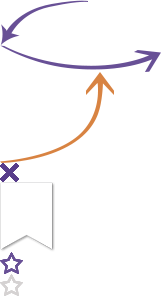
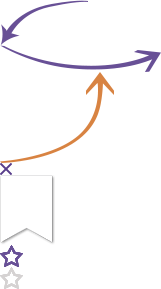
location

diff --git a/css/common.css b/css/common.css
@@ -167,12 +167,12 @@ a { color: inherit; }
 
 .icon-all-arrow-top-orange { background-position: 0 -72px; height: 91px; width: 114px; }
 
-.icon-all-close { background-position: 0 -163px; height: 19px; width: 19px; }
+.icon-all-close { background-position: 0 -163px; height: 12px; width: 12px; }
 
-.icon-all-icon-mark { background-position: 0 -182px; height: 70px; width: 55px; }
+.icon-all-icon-mark { background-position: 0 -175px; height: 70px; width: 55px; }
 
-.icon-all-star { background-position: 0 -274px; height: 22px; width: 23px; }
-.icon-all-star:hover, .icon-all-star.star-hover { background-position: 0 -252px; }
+.icon-all-star { background-position: 0 -267px; height: 22px; width: 23px; }
+.icon-all-star:hover, .icon-all-star.star-hover { background-position: 0 -245px; }
 
 /*------------------------------------------------------------------------- */
 /*----------------------------- MAIN STYLES ------------------------------- */
@@ -249,33 +249,52 @@ body { min-width: 1240px; font-family: Arial, sans-serif; font-size: 16px; color
 .post-new { float: right; padding: 0 10px; color: #fff; line-height: 38px; text-transform: uppercase; background-color: #d4762d; -webkit-transition: all 0.2s; transition: all 0.2s; }
 .post-new:hover { background-color: #583d8b; -webkit-transition: all 0.2s; transition: all 0.2s; }
 
-#ui-id-1 { float: left; z-index: 1001; background-color: #fff; box-shadow: 0 0 6px rgba(1, 1, 1, 0.5); }
+#ui-id-1 { float: left; padding: 0 10px; z-index: 1001; background-color: #fff; box-shadow: 0 2px 6px rgba(1, 1, 1, 0.5); }
 #ui-id-1 li { cursor: pointer; }
+#ui-id-1 li:hover { background-color: #e0d9ee; }
+#ui-id-1 li + li { border-top: 1px solid #e0d9ee; }
 
 .form-search { margin-top: 10px; padding: 20px; background-color: #583d8b; -webkit-transition: all 0.3s; transition: all 0.3s; *zoom: 1; }
 .form-search:after { content: ""; display: table; clear: both; }
 .form-search .field { float: left; width: 268px; }
 .form-search .field input, .form-search .field button { width: 100%; height: 36px; line-height: 36px; }
-.form-search .field input { padding: 0 10px; font-size: 20px; color: #583d8b; }
+.form-search .field input { padding: 0 10px; font-size: 16px; color: #583d8b; }
 .form-search .field input:-moz-placeholder, .form-search .field input::-moz-placeholder { color: #583d8b; opacity: 1; }
 .form-search .field input::-webkit-input-placeholder { color: #583d8b; }
 .form-search .field input:focus { box-shadow: inset 0 0 3px 1px #d4762d; }
 .form-search .field button { font-size: 16px; color: #fff; text-transform: uppercase; text-align: left; text-indent: 38px; background-color: #9685b6; background-image: url("../img/icon-zoom.png"); background-position: 10px center; background-repeat: no-repeat; -webkit-transition: all 0.2s; transition: all 0.2s; }
 .form-search .field button:hover { background-color: #d4762d; -webkit-transition: all 0.2s; transition: all 0.2s; }
 .form-search .location { position: relative; }
+.form-search .location input { cursor: text; }
+.form-search .location input:focus { box-shadow: none; }
 .form-search .location input::-ms-clear { display: none; }
-.form-search .location .clear-input { position: absolute; display: block; right: 0; top: 0; margin-right: 8px; margin-top: 8px; }
 .form-search .search { position: relative; width: 522px; margin-left: 20px; -webkit-transition: all 0.3s; transition: all 0.3s; }
 .form-search .search input::-ms-clear { display: none; }
-.form-search .search .clear-input { position: absolute; display: block; right: 0; top: 0; margin-right: 8px; margin-top: 8px; }
+.form-search .search .clear-input { position: absolute; z-index: 6; display: none; right: 0; top: 0; margin-right: 10px; margin-top: 12px; }
 .form-search .submit { float: right; width: 110px; -webkit-transition: all 0.3s; transition: all 0.3s; }
 
-.location-wrap { padding-left: 20px; padding-right: 20px; padding-bottom: 20px; background-color: #583d8b; }
+.clear-input { position: absolute; display: none; right: 0; top: 0; margin-right: 10px; margin-top: 12px; }
 
-.region-wrap, .city-wrap { width: 100%; font-size: 14px; color: #fff; -webkit-column-count: 4; -moz-column-count: 4; column-count: 4; *zoom: 1; }
+.search-city-wrap { position: relative; margin-bottom: 15px; width: 268px; }
+.search-city-wrap input { width: 100%; padding: 0 10px; font-size: 16px; color: #583d8b; line-height: 26px; vertical-align: top; }
+.search-city-wrap .clear-input { margin-top: 8px; margin-right: 8px; }
+
+.location-wrap { display: none; min-height: 220px; padding-left: 20px; padding-right: 20px; padding-bottom: 20px; background-color: #583d8b; }
+
+.location-title { margin-bottom: 10px; padding-bottom: 3px; font-size: 16px; color: #fff; border-bottom: 1px solid #fff; *zoom: 1; }
+.location-title:after { content: ""; display: table; clear: both; }
+.location-title__all, .location-title__region, .location-title__back { float: left; margin-right: 20px; font-size: inherit; color: inherit; background-color: transparent; cursor: pointer; }
+.location-title__all:hover, .location-title__region:hover, .location-title__back:hover { color: #e5ad82; }
+.location-title__region { display: none; }
+.location-title__back { display: none; float: right; margin-right: 0; }
+
+.region-wrap, .city-wrap { width: 100%; font-size: 14px; color: #fff; *zoom: 1; }
 .region-wrap:after, .city-wrap:after { content: ""; display: table; clear: both; }
-.region-wrap li, .city-wrap li { cursor: pointer; }
-.region-wrap li:hover, .city-wrap li:hover { color: #e5ad82; text-decoration: underline; }
+.region-wrap .region-list, .region-wrap .city-list, .city-wrap .region-list, .city-wrap .city-list { -webkit-column-count: 4; -moz-column-count: 4; column-count: 4; -webkit-column-rule: 1px solid rgba(255, 255, 255, 0.5); -moz-column-rule: 1px solid rgba(255, 255, 255, 0.5); column-rule: 1px solid rgba(255, 255, 255, 0.5); }
+.region-wrap .region-list li, .region-wrap .city-list li, .city-wrap .region-list li, .city-wrap .city-list li { cursor: pointer; }
+.region-wrap .region-list li:hover, .region-wrap .city-list li:hover, .city-wrap .region-list li:hover, .city-wrap .city-list li:hover { color: #e5ad82; text-decoration: underline; }
+
+.city-wrap { display: none; }
 
 .section-main { position: relative; *zoom: 1; }
 .section-main:after { content: ""; display: table; clear: both; }

diff --git a/js/main.js b/js/main.js
@@ -1,5 +1,16 @@
 $(document).ready(function(){
 
+// Clear placeholder
+	(function() {
+		$('input,textarea').focus(function(){
+				$(this).data('placeholder',$(this).attr('placeholder'))
+				$(this).attr('placeholder','');
+		});
+		$('input,textarea').blur(function(){
+			$(this).attr('placeholder',$(this).data('placeholder'));
+		});
+	}());
+
 // fix adblock
 	$(window).load(function(){
 		$('.banner-top').each(function(){
@@ -12,6 +23,65 @@ $(document).ready(function(){
 			// 	$('.header').css('top', '0');
 			// };
 		});
+	});
+
+// form search
+	// hide location-wrap on outer click
+	if ($('.location-wrap').length) {
+		$(document).click(function(e) {
+			if ( ($(e.target).closest('.location-wrap').length === 0) && ($(e.target).closest('#cityCurrent').length === 0) ) {
+				$('.location-wrap').hide();
+			}
+		});
+	};
+	// show/hide location-wrap
+	$('#cityCurrent').on('click', function(){
+		$('.location-wrap').toggle();
+	});
+	$('.header input').blur(function(){
+		if ($(this).val()) {
+			$(this).siblings('.clear-input').css('display', 'block');
+		};
+	});
+
+	// clear-input button
+	$('.clear-input').on('click', function(){
+		$(this).siblings('input').val('');
+		$(this).hide();
+	});
+
+	// location-all button
+	$('.location-title__all').on('click', function(){
+		$('#cityCurrent').val($(this).text()).siblings('.clear-input').css('display', 'block');
+		$('.location-wrap').hide();
+		$('.location-wrap input').val('');
+		$('.location-wrap .clear-input').hide();
+		$('.city-wrap').hide();
+		$('.city-list').remove();
+		$('.region-wrap').show();
+		$('.location-title__region').hide();
+		$('.location-title__back').hide();
+	});
+
+	// location-title__back button
+	$('.location-title__back').on('click', function(){
+		$('.city-list').remove();
+		$('.city-wrap').hide();
+		$('.region-wrap').show();
+		$(this).hide();
+	});
+
+	// location-title__region
+	$('.location-title__region').on('click', function(){
+		$("#cityCurrent").val($(this).text()).siblings('.clear-input').css('display', 'block');
+		$('.location-wrap').hide();
+		$('.location-wrap input').val('');
+		$('.location-wrap .clear-input').hide();
+		$('.city-wrap').hide();
+		$('.city-list').remove();
+		$('.region-wrap').show();
+		$('.location-title__region').hide();
+		$('.location-title__back').hide();
 	});
 
 // region list
@@ -43,6 +113,10 @@ $(document).ready(function(){
 		$('.region-list li').on('click', function(){
 			regionMark = $(this).text();
 			cityList();
+			$('.region-wrap').hide();
+			$('.city-wrap').show();
+			$('.location-title__region').show().text(regionMark);
+			$('.location-title__back').show();
 		});
 	}
 
@@ -79,7 +153,16 @@ $(document).ready(function(){
 		    	$('.city-list li:last-child').text(cityArr[i]);
 		    };
 		    $('.city-list li').on('click', function(){
-				$('#cityBox').val($(this).text());
+				$('#cityBox').val($(this).text()).siblings('.clear-input').css('display', 'block');
+				$('#cityCurrent').val($('#cityBox').val()).siblings('.clear-input').css('display', 'block');
+				$('.location-wrap').hide();
+				$('.location-wrap input').val('');
+				$('.location-wrap .clear-input').hide();
+				$('.city-wrap').hide();
+				$('.city-list').remove();
+				$('.region-wrap').show();
+				$('.location-title__region').hide();
+				$('.location-title__back').hide();
 			});
 		}
 	};
@@ -110,11 +193,22 @@ $(document).ready(function(){
 	                return matcher.test( item );
 	            }) );
 	        },
-	        minLength: 1
-	        // select: function(event, ui) {
-	        //     $("#cityBox").val(ui.item.value);
-	        //     $("#searchForm").submit();
-	        // }
+	        minLength: 1,
+	        select: function(event, ui) {
+	        	$("#cityBox").val(ui.item.value);
+	        	var cityCurrent = $("#cityBox").val();
+	            $('#cityCurrent').val(cityCurrent).siblings('.clear-input').css('display', 'block');
+	            $('.location-wrap').hide();
+	            $('.location-wrap input').val('');
+	            $('.location-wrap .clear-input').hide();
+	            $('.city-wrap').hide();
+	            $('.city-list').remove();
+	            $('.region-wrap').show();
+	            $('.location-title__region').hide();
+	            $('.location-title__back').hide();
+	            ui.item.value = '';
+	            $('#cityBox').val(ui.item.value);
+	        }
 	    });
 	}
 

diff --git a/sass/common.sass b/sass/common.sass
@@ -243,11 +243,16 @@ body
 		transition: all 0.2s
 #ui-id-1
 	float: left
+	padding: 0 10px
 	z-index: 1001
 	background-color: #fff
-	box-shadow: 0 0 6px rgba(1,1,1,0.5)
+	box-shadow: 0 2px 6px rgba(1,1,1,0.5)
 	li
 		cursor: pointer
+		&:hover
+			background-color: lighten($viollet,50)
+		+ li
+			border-top: 1px solid lighten($viollet,50)
 .form-search
 	margin-top: 10px
 	padding: 20px
@@ -263,7 +268,7 @@ body
 			line-height: 36px
 		input
 			padding: 0 10px
-			font-size: 20px
+			font-size: 16px
 			color: $viollet
 			+placeholder-color($viollet)
 			&:focus
@@ -285,15 +290,11 @@ body
 	.location
 		position: relative
 		input
+			cursor: text
+			&:focus
+				box-shadow: none
 			&::-ms-clear
 				display: none
-		.clear-input
-			position: absolute
-			display: block
-			right: 0
-			top: 0
-			margin-right: 8px
-			margin-top: 8px
 	.search
 		position: relative
 		width: 522px
@@ -304,31 +305,81 @@ body
 				display: none
 		.clear-input
 			position: absolute
-			display: block
+			z-index: 6
+			display: none
 			right: 0
 			top: 0
-			margin-right: 8px
-			margin-top: 8px
+			margin-right: 10px
+			margin-top: 12px
 	.submit
 		float: right
 		width: 110px
 		transition: all 0.3s
+.clear-input
+	position: absolute
+	display: none
+	right: 0
+	top: 0
+	margin-right: 10px
+	margin-top: 12px
+.search-city-wrap
+	position: relative
+	margin-bottom: 15px
+	width: 268px
+	input
+		width: 100%
+		padding: 0 10px
+		font-size: 16px
+		color: $viollet
+		line-height: 26px
+		vertical-align: top
+	.clear-input
+		margin-top: 8px
+		margin-right: 8px
 .location-wrap
+	display: none
+	min-height: 220px
 	padding-left: 20px
 	padding-right: 20px
 	padding-bottom: 20px
 	background-color: $viollet
+.location-title
+	margin-bottom: 10px
+	padding-bottom: 3px
+	font-size: 16px
+	color: #fff
+	border-bottom: 1px solid #fff
+	+pie-clearfix
+	&__all, &__region, &__back
+		float: left
+		margin-right: 20px
+		font-size: inherit
+		color: inherit
+		background-color: transparent
+		cursor: pointer
+		&:hover
+			color: lighten($orange,20)
+	&__region
+		display: none
+	&__back
+		display: none
+		float: right
+		margin-right: 0
 .region-wrap, .city-wrap
 	width: 100%
 	font-size: 14px
 	color: #fff
-	column-count: 4
 	+pie-clearfix
-	li
-		cursor: pointer
-		&:hover
-			color: lighten($orange,20)
-			text-decoration: underline
+	.region-list, .city-list
+		column-count: 4
+		column-rule: 1px solid rgba(255,255,255,0.5)
+		li
+			cursor: pointer
+			&:hover
+				color: lighten($orange,20)
+				text-decoration: underline
+.city-wrap
+	display: none
 .section-main
 	position: relative
 	+pie-clearfix

diff --git a/index.html b/index.html
@@ -38,8 +38,8 @@
 					<fieldset>
 						<!-- begin field  -->
 						<div class="field location">
-							<input type="text" id="cityBox" placeholder="Город, область...">
-							<a href="#" class="clear-input icon-all-close"></a>
+							<input type="text" id="cityCurrent" readonly="readonly" placeholder="Город, область...">
+							<a href="#" class="clear-input reset icon-all-close"></a>
 						</div>
 						<!-- begin field  -->
 						<div class="field search">
@@ -53,6 +53,15 @@
 					</fieldset>
 				</form>
 				<div class="location-wrap">
+					<div class="location-title">
+						<button class="location-title__all">Вся Украина</button>
+						<button class="location-title__region">область</button>
+						<button class="location-title__back">вернуться к выбору области</button>
+					</div>
+					<div class="search-city-wrap">
+						<input type="text" id="cityBox" placeholder="Начните вводить город">
+						<a href="#" class="clear-input icon-all-close"></a>
+					</div>
 					<div class="region-wrap"></div>
 					<div class="city-wrap"></div>
 				</div>
